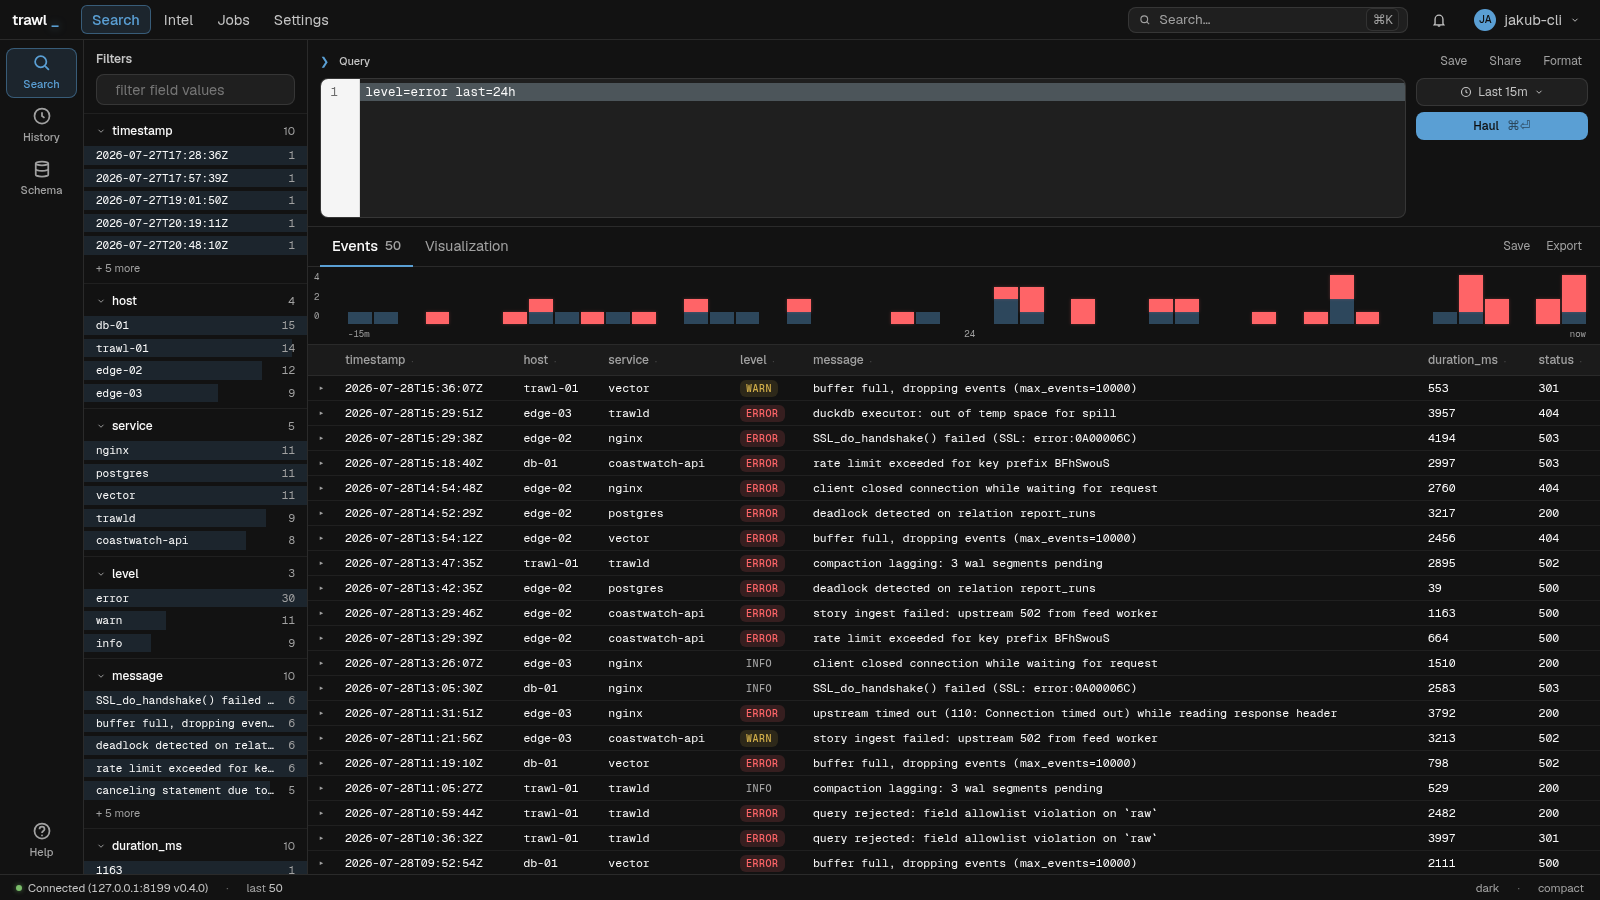
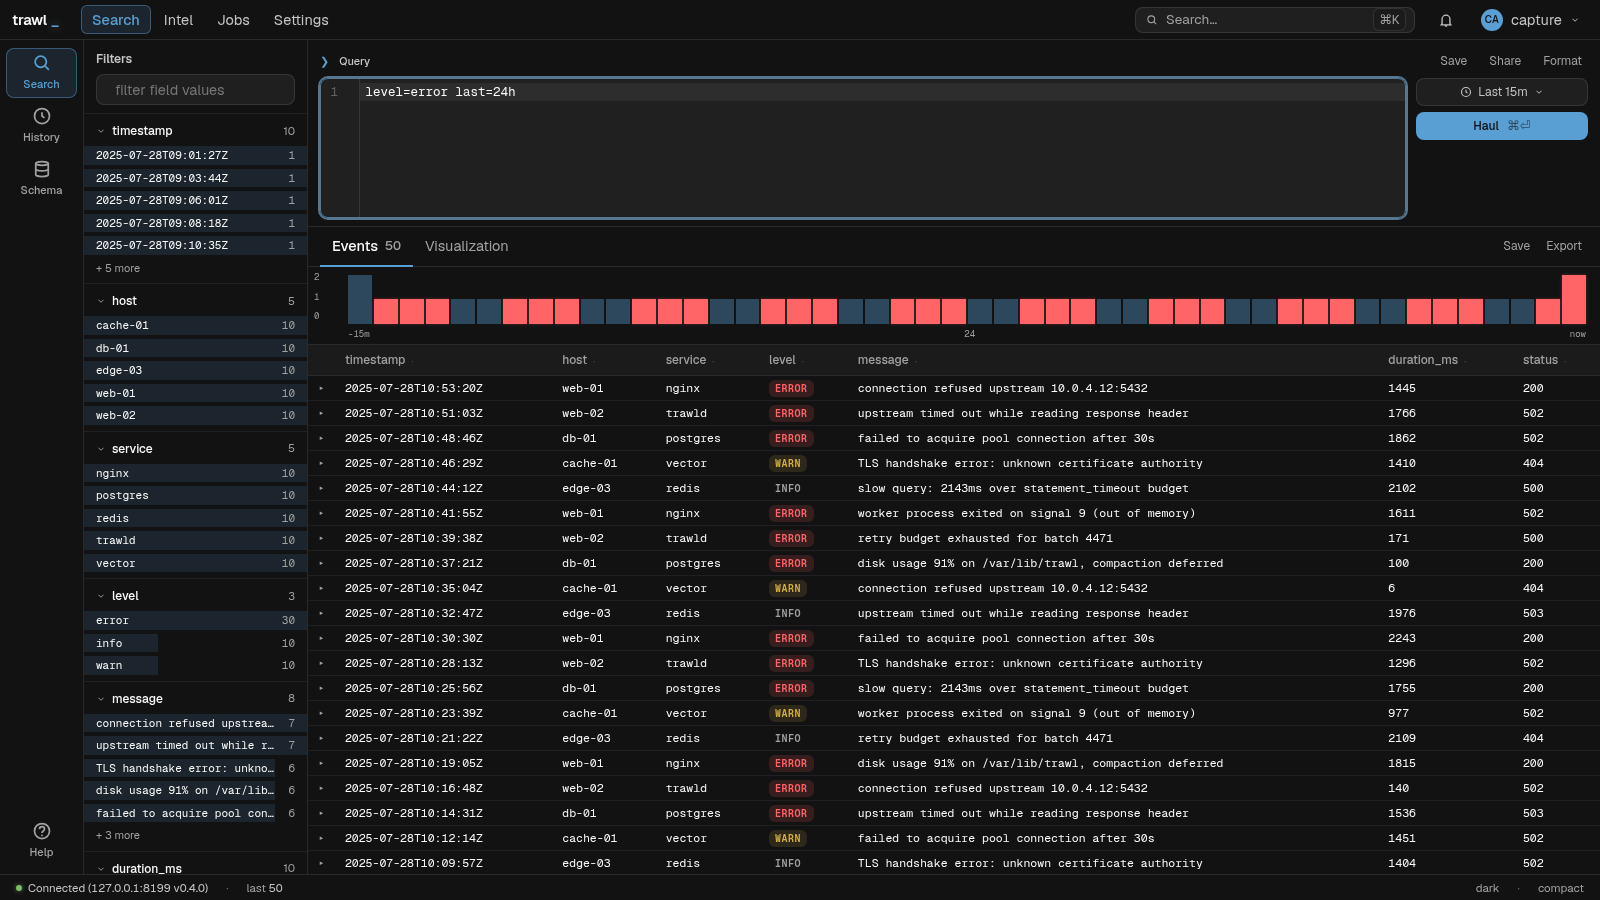
fix(web-ui): theme the DSL editor gutter, re-capture AC7 with the ring
AC7 wants five Mira Blue states evidenced; the captures carried four.
Nothing in the four frames held focus, so the 2px `--ring` recipe --- the
one state ADR-0007 names that has no resting-state tell --- was asserted
in the README rather than shown.

And the search dark capture had a defect nobody had flagged: the DSL
editor's line-number gutter pixel-sampled at (245,245,245) in BOTH
themes, a near-white slab against a (31,31,31) editor body, with a
light-grey band across the active line. CodeMirror ships an
unconditional LIGHT base theme for `.cm-gutters` (#f5f5f5 rail, #ddd
divider), `.cm-activeLine` (#cceeff44) and the caret (black), we install
no CM dark theme, and neither stylesheet declared a rule for any of
them. Pre-existing since the editor landed --- not a Mira Blue
regression --- but it contradicted the README's claim that the dark
search page matches the target, and it was the most visible unstyled
surface in the capture.

Tokenize the three surfaces CM hard-codes, at the same 3-class
specificity `.cm-scroller` already needs to beat CM's injected <style>.
No `.cm-activeLineGutter` rule: the bundle installs `highlightActiveLine`
but not `highlightActiveLineGutter`, so that class never renders.

Re-capture all four at true HEAD --- the previous set predates four
later CSS fixes, and its README cited a provenance commit that did not
yet exist --- each with a control focused: keyboard focus on
shell_demo's "fire success" primary, caret in the search page's DSL
[…]

diff --git a/crates/trawl-web-ui/styles/main.css b/crates/trawl-web-ui/styles/main.css
@@ -371,6 +371,23 @@
  * (injected <style> comes after this sheet in source order). Re-state
  * the stack at higher specificity so Geist Mono actually renders. */
 .dsl-editor .cm-editor .cm-scroller { overflow: auto; font-family: var(--font-mono); }
+/* Same story for the gutter. CM6's base theme paints the line-number
+ * rail with an unconditional LIGHT palette — `#f5f5f5` rail, `#ddd`
+ * divider, `#cceeff44` active-line band, `caret-color: black` — and we
+ * install no CM dark theme, so in dark mode the rail rendered as a
+ * near-white slab against the `oklch(14.5%)` editor body with a
+ * light-grey band across the active line. Tokenize the three surfaces
+ * the base theme hard-codes so the editor inverts with the rest of the
+ * app; 3-class specificity for the reason above. (No
+ * `.cm-activeLineGutter` rule: the bundle installs `highlightActiveLine`
+ * but not `highlightActiveLineGutter`, so that class never renders.) */
+.dsl-editor .cm-editor .cm-gutters {
+  background: transparent;
+  border-right: 1px solid var(--line);
+  color: var(--ink-4);
+}
+.dsl-editor .cm-editor .cm-activeLine { background: var(--fill); }
+.dsl-editor .cm-editor .cm-content { caret-color: var(--ink); }
 
 /* Right column beside the editor: date-range trigger stacked over Run.
  * The old 2×3 pill strip is gone — both rows are plain 28px controls. */

diff --git a/visual-evidence/issue-47/README.md b/visual-evidence/issue-47/README.md
@@ -2,11 +2,15 @@
 
 The four AC7 captures: **shell_demo** and the **trawl-web-ui search page**,
 each in light and dark. Both builds are the Mira Blue port at branch HEAD
-(`8fc4bfd`) — there is no before/after grid here, because ADR-0007 is a
-deliberate design-language change, not a parity migration (contrast
-`issue-31/`, which gates on pixels).
+— there is no before/after grid here, because ADR-0007 is a deliberate
+design-language change, not a parity migration (contrast `issue-31/`,
+which gates on pixels).
 
-Fixed 1600×900 viewport, headless Chromium, `device-scale-factor` 1.
+Fixed 1600×900 viewport, headless Chromium, `device-scale-factor` 1. Both
+surfaces are captured with a control **focused** — keyboard focus on
+shell_demo's "fire success" primary, caret in the search page's DSL editor
+— so the 2px `--ring` state AC7 names is on screen rather than asserted in
+prose. The rest of each frame is the resting state.
 
 ## Surfaces
 
@@ -30,6 +34,10 @@ What to look for against ADR-0007:
   chips sit on 6px `--radius-sm`.
 - **Surfaces** — neutral OKLCH ramp end to end; no blue cast in the
   panel/line tokens, only in the accent.
+- **Ring focus** — "fire success" holds keyboard focus: the global
+  `:focus-visible` recipe, `box-shadow: 0 0 0 2px var(--ring)`, never the
+  browser's own blue outline. `--ring` is accent-mixed per theme, so the
+  halo is a muted blue in light and a brighter one in dark.
 
 ### 2. trawl-web-ui `/search` (`crates/trawl-web-ui`)
 
@@ -46,6 +54,16 @@ What to look for:
   calls out by name: light-blue `Haul ⌘⏎` fill with near-black text.
 - **Editor + range trigger** — translucent `--fill` wash over the panel,
   8px radius, no hard-coded grey.
+- **Ring focus** — the caret sits in the DSL editor, so `:focus-within`
+  paints the same 2px `--ring` on the editor frame that shell_demo shows
+  on a button. The app-side reading of the design-system state above.
+- **Editor gutter** — the line-number rail and active-line band track the
+  theme. CodeMirror ships an unconditional light base theme for both
+  (`#f5f5f5` rail, `#cceeff44` band) and nothing here installs a CM dark
+  theme, so before `.cm-gutters` / `.cm-activeLine` were tokenized the
+  dark capture carried a near-white slab down the left of an
+  `oklch(14.5%)` editor. Sample the rail at (340,150): it now reads the
+  editor body's own colour in each theme.
 - **Chips / facet rows** — 6px, and the level badges keep their semantic
   hues (`--red` / `--yellow`) rather than inheriting the accent.
 - **Field-type colours** — the facet counts and histogram bars stay
@@ -85,8 +103,16 @@ render `/search` fully. No live trawld, no postgres, no session cookie.
    `localStorage["trawl.ui"] = {"theme":"light"|"dark","density":"compact","rowstyle":"bordered"}`
    for the SPA, `localStorage["fleet-ui-demo:prefs"]` (same shape) for
    shell_demo, then reload and capture.
+6. Put a control in focus before the shutter so the ring state is in
+   frame. shell_demo: `Tab` until `document.activeElement` is the "fire
+   success" button — it has to be *keyboard* focus, `.focus()` alone
+   doesn't satisfy `:focus-visible`. Search: click `.dsl-editor
+   .cm-content`, which is enough for the frame's `:focus-within`. On
+   shell_demo also wait out the mount-fired toasts (~8s) so the demo's
+   two auto-dismissing toasts aren't in the frame.
 
 The rows are canned, not live homelab data — the chrome is what AC7 gates
-on, and canned rows make the capture deterministic. The status bar
-therefore reads the capture host (`127.0.0.1:8199`) rather than a real
-upstream.
+on, and canned rows make the capture deterministic. Seed the row generator
+per response, not per process, so the light and dark frames carry
+identical rows and only the theme differs. The status bar therefore reads
+the capture host (`127.0.0.1:8199`) rather than a real upstream.

diff --git a/CHANGELOG.md b/CHANGELOG.md
@@ -11,6 +11,9 @@ The format is based on [Keep a Changelog](https://keepachangelog.com/en/1.1.0/).
 - **BREAKING — rate limiting is per API key, not per role (ADR-0006 slice 0, #43).** Every key now gets an independent token bucket keyed by its keystore id, so one noisy key can no longer starve others; the `[server.rate_limit]` per-role knobs (`admin`, `analyst`, `reader`, `ingest`) are replaced by two route-class knobs: `default_rpm` for the interactive API routes (default 100 — the loosest legacy *interactive* ceiling, so an upgrade never widens a reader key to the shipper-sized budget) and `ingest_rpm` for `/api/v1/ingest` (default 1000 — the legacy ingest ceiling, unchanged); `0` disables a class. `ingest_rpm` is earned by the `ingest` permission, not by the route: a key without it stays on its `default_rpm` bucket when it posts to `/api/v1/ingest`, so the shipper-sized ceiling never widens an unprivileged key on the heaviest endpoint. A config still carrying a per-role key fails validation at boot with a message naming the migration, and the helm chart fails at render if a values file still sets `rateLimit.admin`/`analyst`/`reader`/`ingest` (`rateLimit.defaultRpm` + `rateLimit.ingestRpm` replace them) — never a silent ignore of tuned quotas. 429 semantics and response shape are unchanged. Role-differentiated class-of-service is deliberately deferred to slice 1, where it returns as a `rate_rpm` role attribute; the `rate_limit_exceeded` log event now carries `key_id` instead of `role`.
 - **Web UI reskin: Mira Blue design language (ADR-0007, #47).** fleet-ui and the trawl web UI move onto Basecoat Mira's geometry and neutral zero-chroma OKLCH surfaces with fleet's blue accent retained — a pure CSS/HTML pass (no component markup changes). Buttons drop to weight 500 with transparent borders, `color-mix` tint hovers, and a 1px translate press; destructive buttons become tinted (red text on a red wash) instead of solid; inputs and the DSL editor get translucent line-tint fills; focus is a 2px solid accent-tinted ring; radii are tokenized (`--radius-panel/ctl/sm/...`); button text reads the new `--on-accent` token, and dark mode keeps Mira's inversion (near-black text on the light-blue accent). Fonts swap from Open Sans / Fira Code to **Geist / Geist Mono** (still Google Fonts, self-hosting deferred), and `color-scheme` + `scrollbar-color` are declared so Firefox native widgets follow the theme. The `css_chrome_parity` golden fixture is re-captured at this baseline. coastwatch is unaffected until its next `TRAWL_REV` bump, where it runs its own adoption pass.
 
+### Fixed
+- **Web UI: the DSL editor's line-number gutter follows the theme.** CodeMirror ships an unconditional light base theme for the gutter rail, the active-line band, and the caret, and nothing installs a CM dark theme — so in dark mode the rail rendered as a near-white slab down the left of an otherwise near-black editor. `.cm-gutters` / `.cm-activeLine` / `.cm-content` are now tokenized (`--line`, `--ink-4`, `--fill`, `--ink`) like the rest of the editor frame. Pre-existing since the editor landed, not a Mira Blue regression (#47).
+
 ## [0.4.0] - 2026-07-24
 
 ### Added
